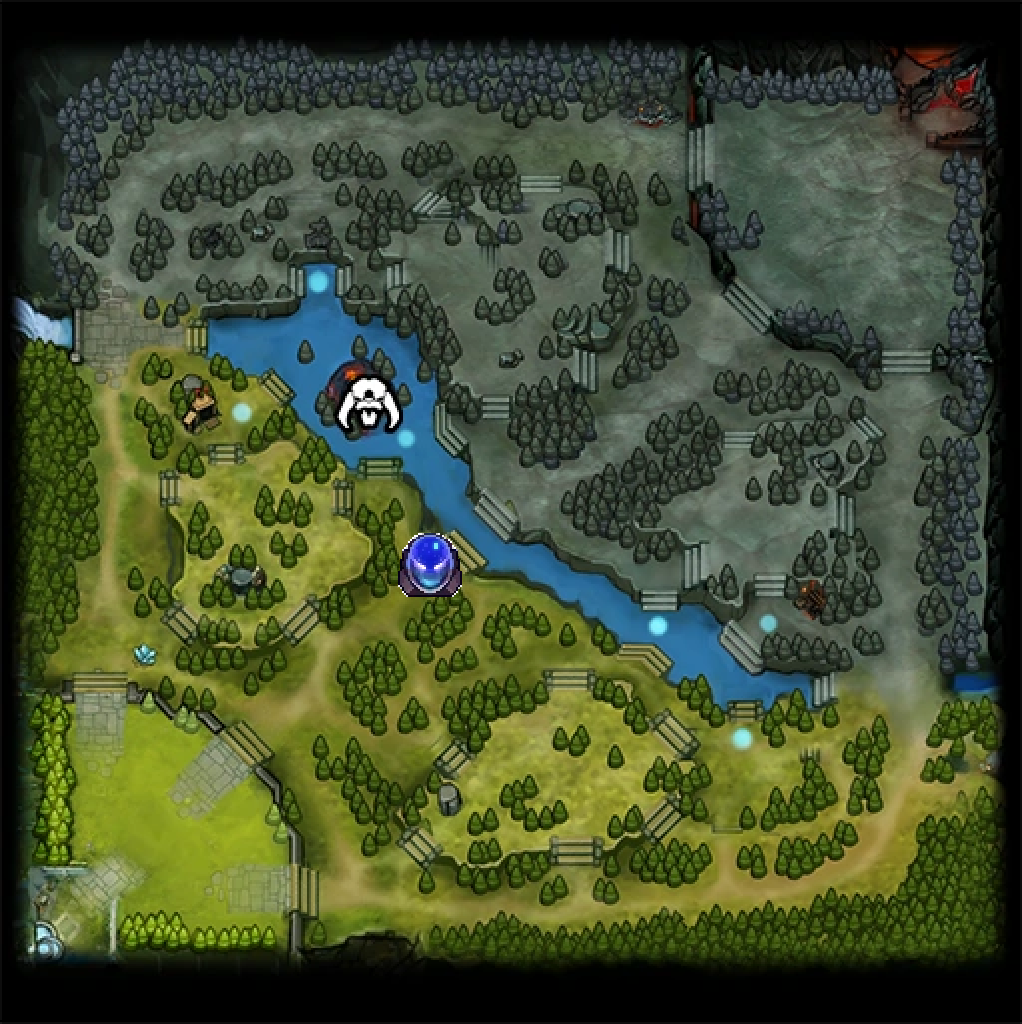
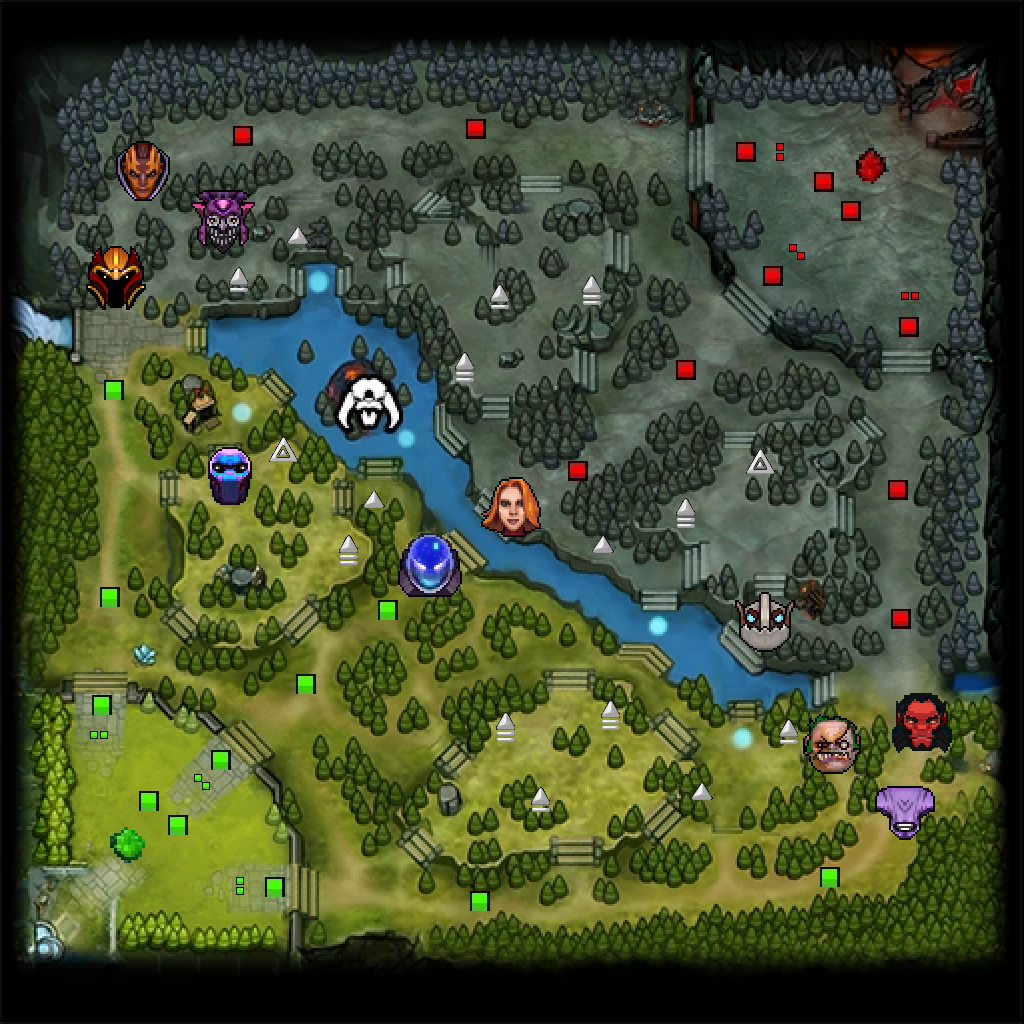
huge map update

diff --git a/index.html b/index.html
@@ -4,7 +4,7 @@
 Welcome in DotA 2!
 </title>
 </head>
-<body>
+<body leftmargin='50'>
 <h1 align='center'>
 Добро пожаловать в DotA 2! 
 </h1>
@@ -17,10 +17,10 @@ DotA 2 это соревновательная MOBA игра, за победу 
 вас и вашу команду поджидают вражеские герои, а также оборонительные башни, которые вы вынуждены сломать, чтобы открыть путь к Древнему. 
 В таком нелёгком пути, вам помогут предметы, которые вы всегда можете приобрести в магазине за золото. 
 </p>
-<p align='center'>
+<p align='left'>
 Помните, враг не стоит на месте! Он преследует те же цели, но настроен против вас.
 </p>
-<p align='center'>
+<p align='left'>
 <table bgcolor='888888' border='3'>
 <tr>
 <td align='center'> Герои </td>
@@ -29,7 +29,7 @@ DotA 2 это соревновательная MOBA игра, за победу 
 <td align='center'> NPC </td>
 </tr>
 </table>
-<h3 align='center'>
+<h3 align='left'>
 Карта игры
 </h3>
 <p align='left'>
@@ -39,9 +39,9 @@ DotA 2 это соревновательная MOBA игра, за победу 
 Помимо вышеописанного, на карте присутсвует 2 леса на каждую сторону, большой и малый. 
 В большом лесу обитает большое количество слабых крипов, однако в малом лесу крипы сильнее, а награда, соответственно - больше. 
 </p>
-<h3 align ='center'>
+<h1 align ='center'>
 Интерактивная мини-карта
-</h3>
+</h1>
 <p align='center'>
 Карта, находящаяся ниже, поможет вам наглядно представить игру. 
 Для удобства, на карте расположены 10 сражающихся за победу героев, по 5 с каждой стороны.
@@ -49,7 +49,78 @@ DotA 2 это соревновательная MOBA игра, за победу 
 <p align='center'>
 <img src='Map.png' usemap='#heroes'>
 <map name='heroes'>
-<area shape='circle' coords='430,555,36' href='Arc Warden.html'>
+<area shape='circle' coords='430,555,32' href='heroes\Arc Warden.html'>
+<area shape='circle' coords='900,810,32' href='heroes\Faceless Void.html'>
+<area shape='circle' coords='840,750,32' href='heroes\Pudje.html'>
+<area shape='circle' coords='115,280,32' href='heroes\Dragon Knight.html'>
+<area shape='circle' coords='220,490,32' href='heroes\Enigma.html'>
+<!-- radiant up dire down -->
+<area shape='circle' coords='510,505,32' href='heroes\Lina.html'>
+<area shape='circle' coords='140,170,32' href='heroes\Anti Mage.html'>
+<area shape='circle' coords='225,220,32' href='heroes\Dazzle.html'>
+<area shape='circle' coords='925,725,32' href='heroes\Axe.html'>
+<area shape='circle' coords='760,625,32' href='heroes\Clockwerk.html'>
+<!-- towers (from top to bottom) -->
+<area shape='circle' coords='580,470,10' href='constructions\Tier 1 tower.html'>
+<area shape='circle' coords='240,135,10' href='constructions\Tier 1 tower.html'>
+<area shape='circle' coords='900,620,10' href='constructions\Tier 1 tower.html'>
+<area shape='circle' coords='110,390,10' href='constructions\Tier 1 tower.html'>
+<area shape='circle' coords='830,875,10' href='constructions\Tier 1 tower.html'>
+<area shape='circle' coords='390,610,10' href='constructions\Tier 1 tower.html'>
+<!-- tier 1 -->
+<area shape='circle' coords='475,130,10' href='constructions\Tier 2 tower.html'>
+<area shape='circle' coords='685,370,10' href='constructions\Tier 2 tower.html'>
+<area shape='circle' coords='900,490,10' href='constructions\Tier 2 tower.html'>
+<area shape='circle' coords='110,595,10' href='constructions\Tier 2 tower.html'>
+<area shape='circle' coords='480,900,10' href='constructions\Tier 2 tower.html'>
+<area shape='circle' coords='305,685,10' href='constructions\Tier 2 tower.html'>
+<!-- tier 2  -->
+<area shape='circle' coords='745,150,10' href='constructions\Tier 3 tower.html'>
+<area shape='circle' coords='770,275,10' href='constructions\Tier 3 tower.html'>
+<area shape='circle' coords='910,325,10' href='constructions\Tier 3 tower.html'>
+<area shape='circle' coords='100,705,10' href='constructions\Tier 3 tower.html'>
+<area shape='circle' coords='220,760,10' href='constructions\Tier 3 tower.html'>
+<area shape='circle' coords='270,890,10' href='constructions\Tier 3 tower.html'>
+<!--tier 3 --> 
+<area shape='circle' coords='820,180,10' href='constructions\Tier 4 tower.html'>
+<area shape='circle' coords='850,210,10' href='constructions\Tier 4 tower.html'>
+<area shape='circle' coords='145,800,10' href='constructions\Tier 4 tower.html'>
+<area shape='circle' coords='180,825,10' href='constructions\Tier 4 tower.html'>
+<!--tier 4 -->
+<area shape='circle' coords='875,170,20' href='constructions\The Ancient.html'>
+<!--dire ancient-->
+<area shape='circle' coords='120,845,20' href='constructions\The Ancient.html'>
+<!--radiant ancient-->
+<area shape='circle' coords='780,156,8' href='constructions\Barracks.html'>
+<area shape='circle' coords='795,255,8' href='constructions\Barracks.html'>
+<area shape='circle' coords='910,295,8' href='constructions\Barracks.html'>
+<!--barracks dire-->
+<area shape='circle' coords='200,780,8' href='constructions\Barracks.html'>
+<area shape='circle' coords='100,735,8' href='constructions\Barracks.html'>
+<area shape='circle' coords='240,885,8' href='constructions\Barracks.html'>
+<!--barracks radiant--> 
+<area shape='circle' coords='295,235,10' href='camps\Small camp.html'>
+<area shape='circle' coords='700,790,10' href='camps\Small camp.html'>
+<area shape='circle' coords='375,500,10' href='camps\Small camp.html'>
+<area shape='circle' coords='605,545,10' href='camps\Small camp.html'>
+<!--small camps-->
+<area shape='circle' coords='500,295,10' href='camps\Average camp.html'>
+<area shape='circle' coords='240,280,10' href='camps\Average camp.html'>
+<area shape='circle' coords='540,800,10' href='camps\Average camp.html'>
+<area shape='circle' coords='790,730,10' href='camps\Average camp.html'>
+<!--average camps-->
+<area shape='circle' coords='610,715,10' href='camps\Big camp.html'>
+<area shape='circle' coords='590,290,10' href='camps\Big camp.html'>
+<area shape='circle' coords='465,365,10' href='camps\Big camp.html'>
+<area shape='circle' coords='505,730,10' href='camps\Big camp.html'>
+<area shape='circle' coords='350,550,10' href='camps\Big camp.html'>
+<area shape='circle' coords='685,510,10' href='camps\Big camp.html'>
+<!--big camps-->
+<area shape='circle' coords='280,450,15' href='camps\Ancient creeps.html'>
+<area shape='circle' coords='765,465,15' href='camps\Ancient creeps.html'>
+<!--ancient creeps-->
+<area shape='circle' coords='370,405,30' href='camps/Roshan.html'>
+<!--roshan-->
 </map>
 </body>
 </html>		

diff --git a/camps/Ancient creeps.html b/camps/Ancient creeps.html
@@ -1,0 +1,15 @@
+<html>
+<head>
+<title>
+Ancient creeps 
+</title>
+</head>
+<body>
+<h1>
+Ancient creeps
+</h1>
+<p>
+test
+</p>
+</body>
+</html>

diff --git a/heroes/Dragon Knight.html b/heroes/Dragon Knight.html
@@ -1,0 +1,15 @@
+<html>
+<head>
+<title>
+Dragon Knight
+</title>
+</head>
+<body>
+<h1>
+Dragon Knight
+</h1>
+<p>
+test
+</p>
+</body>
+</html>

diff --git a/heroes/Faceless Void.html b/heroes/Faceless Void.html
@@ -1,0 +1,15 @@
+<html>
+<head>
+<title>
+Faceless Void
+</title>
+</head>
+<body>
+<h1>
+Faceless Void
+</h1>
+<p>
+test
+</p>
+</body>
+</html>

diff --git a/camps/Average camp.html b/camps/Average camp.html
@@ -1,0 +1,15 @@
+<html>
+<head>
+<title>
+Average camp
+</title>
+</head>
+<body>
+<h1>
+Average camp
+</h1>
+<p>
+test
+</p>
+</body>
+</html>

diff --git a/constructions/Tier 1 tower.html b/constructions/Tier 1 tower.html
@@ -1,0 +1,15 @@
+<html>
+<head>
+<title>
+Tier 1 tower
+</title>
+</head>
+<body>
+<h1>
+Tier 1 tower
+</h1>
+<p>
+test
+</p>
+</body>
+</html>

diff --git a/constructions/Tier 2 tower.html b/constructions/Tier 2 tower.html
@@ -1,0 +1,15 @@
+<html>
+<head>
+<title>
+Tier 2 tower
+</title>
+</head>
+<body>
+<h1>
+Tier 2 tower
+</h1>
+<p>
+test
+</p>
+</body>
+</html>

diff --git a/constructions/Tier 3 tower.html b/constructions/Tier 3 tower.html
@@ -1,0 +1,15 @@
+<html>
+<head>
+<title>
+Tier 3 tower
+</title>
+</head>
+<body>
+<h1>
+Tier 3 tower
+</h1>
+<p>
+test
+</p>
+</body>
+</html>

diff --git a/constructions/Tier 4 tower.html b/constructions/Tier 4 tower.html
@@ -1,0 +1,15 @@
+<html>
+<head>
+<title>
+Tier 4 tower
+</title>
+</head>
+<body>
+<h1>
+Tier 4 tower
+</h1>
+<p>
+test
+</p>
+</body>
+</html>

diff --git a/constructions/The Ancient.html b/constructions/The Ancient.html
@@ -1,0 +1,15 @@
+<html>
+<head>
+<title>
+The Ancient
+</title>
+</head>
+<body>
+<h1>
+The Ancient 
+</h1>
+<p>
+test
+</p>
+</body>
+</html>

diff --git a/camps/Small camp.html b/camps/Small camp.html
@@ -1,0 +1,15 @@
+<html>
+<head>
+<title>
+Small camp
+</title>
+</head>
+<body>
+<h1>
+Small camp
+</h1>
+<p>
+test
+</p>
+</body>
+</html>

diff --git a/heroes/Anti Mage.html b/heroes/Anti Mage.html
@@ -1,0 +1,15 @@
+<html>
+<head>
+<title>
+Anti Mage
+</title>
+</head>
+<body>
+<h1>
+Anti Mage
+</h1>
+<p>
+test
+</p>
+</body>
+</html>
